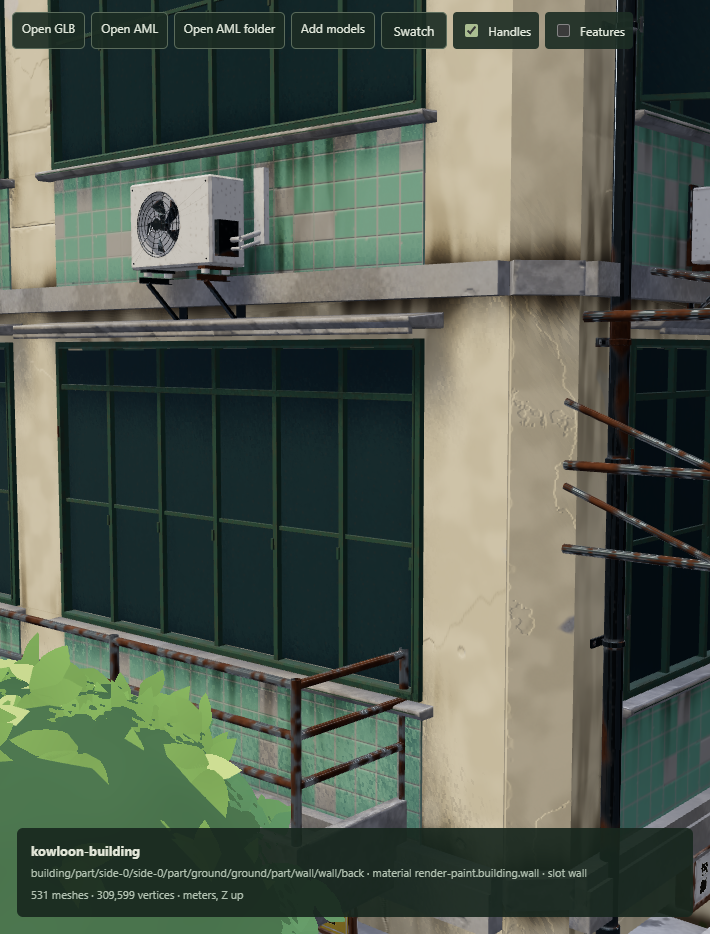
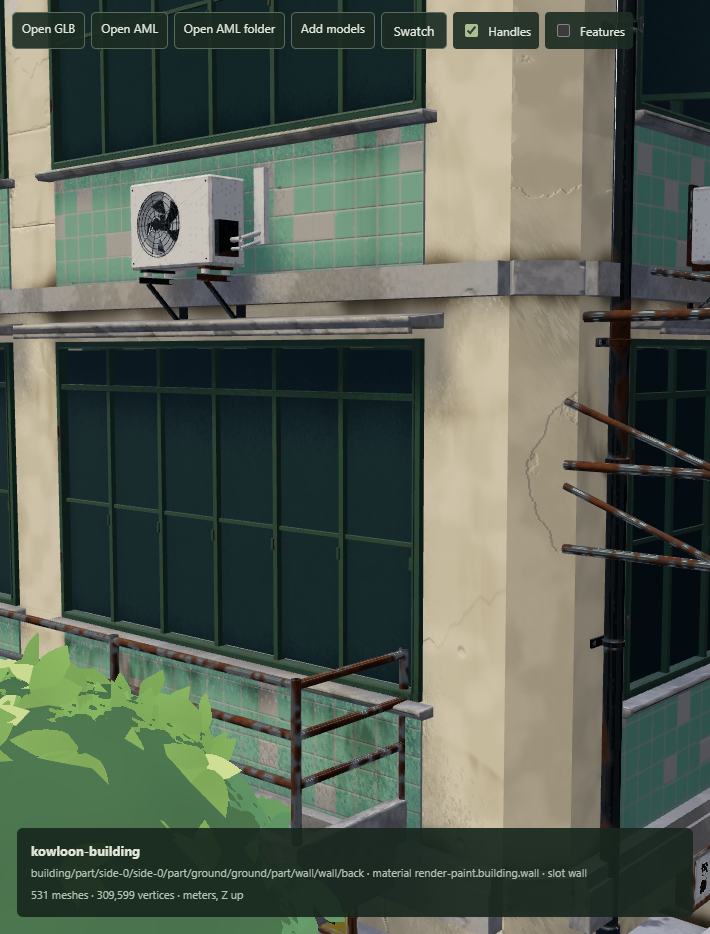
A generic cached grime layer, and wall patterns that run round corners
- kowloon-grime-streaks: grime streaking from the edge a slot names
  (source), with colour, strength, longest streak, repeat and shift.
  The streaks are one cached tile (assets/materials/grime-streaks.png,
  baked by tools/grime/streak-pattern.mjs from the wall condition's
  runoff); per texel the layer maps into edge space only, skewing the
  tile along gravity on sloping edges, stretching it for shorter runs and
  repeating it along any edge. The Kowloon items use it for their top,
  sill and drip grime on walls and tiles.
- Footprint edges report their distance along the cut outline
  (_perimeter, _cperimeter); a building's sides measure their walls
  from it (u0), and a sub-item part takes its sub-item's first part's
  pattern anchor, so concrete and paint continue round every corner.

diff --git a/crates/engine/src/materialspec/program/examples/kowloon-grime-streaks.material.ts b/crates/engine/src/materialspec/program/examples/kowloon-grime-streaks.material.ts
@@ -1,0 +1,41 @@
+// Grime streaking down from an edge, as a weathering layer: a generic deposit that follows the feature the slot
+// names `source` (a ledge, a sill, a roofline, the drip line under an air conditioner: any polyline its geometry's
+// owner reports, so its endpoints are the edge's), with its colour, strength, length and how often it repeats.
+//
+// Nothing is evaluated per texel but the mapping: the streaks themselves are one cached tile,
+// `superspec-material:grime-streaks.png` (written by tools/grime/streak-pattern.mjs from the Kowloon wall
+// condition's runoff), in edge space: across it along the edge over one period, down it from the edge to the longest
+// streak. Each texel finds where it hangs from the edge: its distance to the edge, turned into a drop along the
+// surface's downhill direction (gravity projected onto the surface), and its position along the edge, moved back up
+// that downhill line. So streaks fall with gravity whatever the edge's slope (the tile is skewed on a sloping ledge),
+// a longer or shorter run stretches the same tile, and every edge of every wall repeats it. A point above its edge
+// reads the same distance, so a source is an edge with the surface below it.
+import { defineLayer, param, featureDistance, featureTangent, sampleAlpha, smoothstep, normalize, dot, cross, abs, max, min, add, mul, sub, div, vec2, vec3, world, normal, gravity } from "@superspec/material/v1";
+
+const color = param.vec3({ default: vec3(0.36, 0.34, 0.31), range: [0, 1], label: "Grime colour" });
+const strength = param.scalar({ default: 0.8, range: [0, 2], label: "Strength" });
+const streakLength = param.scalar({ default: 2.8, range: [0.1, 10], unit: "m", label: "Longest streak" });
+const period = param.scalar({ default: 4, range: [0.5, 20], unit: "m", label: "Repeat along the edge" });
+const shift = param.scalar({ default: 0, range: [0, 100], unit: "m", label: "Pattern offset" });
+
+const distance = featureDistance("source", 10);
+const along = featureTangent("source", 10);
+// Downhill on the surface (straight down a flat one, so it is never zero), and the direction across the edge in the
+// surface: a unit vector where the receiver has the edge, zero where it has none (then nothing is drawn).
+const downhill = normalize(add(sub(gravity, mul(normal, dot(gravity, normal))), vec3(0, 0, -1e-4)));
+const across = cross(normal, along);
+const facing = dot(across, downhill);
+// The drop along the downhill line from the edge to this point, and where on the edge that line starts.
+const drop = div(distance, max(abs(facing), 0.2));
+const start = sub(dot(world, along), mul(drop, dot(downhill, along)));
+const tile = vec2(div(add(start, shift), period), min(div(drop, streakLength), 0.999));
+// Beyond the longest streak, or where the receiver has no such edge, nothing.
+const reached = sub(1, smoothstep(0.97, 1, div(drop, streakLength)));
+const coverage = mul(mul(sampleAlpha("superspec-material:grime-streaks.png", tile), reached), strength);
+
+export default defineLayer({
+  name: "Kowloon grime streaks",
+  coverage: min(coverage, 1),
+  baseColor: color,
+  blend: { baseColor: "multiply" },
+});

diff --git a/crates/engine/tests/kowloon_facade_item.rs b/crates/engine/tests/kowloon_facade_item.rs
@@ -203,7 +203,7 @@ fn a_side_stacks_a_ground_floor_upper_floors_and_a_parapet() {
         .map(|l| l.entry.as_str())
         .collect();
     for entry in [
-        "kowloon-runoff.material.ts",
+        "kowloon-grime-streaks.material.ts",
         "kowloon-ground-stain.material.ts",
         "kowloon-moss.material.ts",
     ] {
@@ -509,4 +509,53 @@ fn a_steel_balcony_has_rails_where_a_parapet_is_solid() {
     };
     assert!(rails("steel").contains("metal"), "{:?}", rails("steel"));
     assert!(!rails("parapet").contains("metal"));
+}
+
+#[test]
+fn wall_patterns_run_on_round_the_corners() {
+    // Each side's walls are measured from its distance along the cut footprint, so the concrete
+    // and paint continue round every corner: at a side's start its pattern reads that distance.
+    let building = generate("kowloon-building.item.json", &[]);
+    let anchor = |part: &str| {
+        building
+            .geometry
+            .anchors
+            .iter()
+            .find(|a| a.part == part)
+            .unwrap()
+            .clone()
+    };
+    let along = |part: &str| {
+        let a = anchor(part);
+        let start = translation(&building, part);
+        (0..3)
+            .map(|i| (start[i] - a.origin[i]) * a.u[i])
+            .sum::<f64>()
+    };
+    let cut = 0.24f64;
+    let corner = cut * 2f64.sqrt();
+    assert!(along("side-0").abs() < 1e-9);
+    assert!(
+        (along("corner-0") - (9.8 - cut)).abs() < 1e-9,
+        "{}",
+        along("corner-0")
+    );
+    assert!(
+        (along("side-1") - (9.8 - cut + corner)).abs() < 1e-9,
+        "{}",
+        along("side-1")
+    );
+    assert!(
+        (along("side-2") - (9.8 - cut + corner + 7. - cut)).abs() < 1e-9,
+        "{}",
+        along("side-2")
+    );
+    // Upright, from the ground: every side's v is +z and its origin on the ground.
+    for part in ["side-0", "side-1", "side-2", "side-3", "corner-0"] {
+        let a = anchor(part);
+        assert!(
+            (a.v[2] - 1.).abs() < 1e-9 && a.origin[2].abs() < 1e-9,
+            "{part}: {a:?}"
+        );
+    }
 }

diff --git a/crates/engine/src/itemspec/definition/parts.rs b/crates/engine/src/itemspec/definition/parts.rs
@@ -917,10 +917,22 @@ impl PreparedPart {
         Ok(surfaces.into_meshes(&self.id, &self.slots))
     }
 
-    fn features(&self) -> (Vec<Feature>, PatternAnchor) {
+    /// Where the part sits in its item: part coordinates to item definition coordinates.
+    pub(super) fn placement(&self) -> Matrix {
+        self.placement
+    }
+    /// The part's own features and pattern anchor, in part coordinates. A sub-item part's
+    /// anchor is its sub-item's first part's, so a pattern measured from it continues across the
+    /// parts that place their sub-items at matching offsets (a building's storeys and sides).
+    pub(super) fn features(&self) -> (Vec<Feature>, PatternAnchor) {
         match &self.shape {
             PartShape::Panel(panel) => panel.features(&self.id),
             PartShape::Route(route) => route.features(&self.id),
+            PartShape::Item { prepared, .. } if prepared.0.first_anchor().is_some() => {
+                let mut anchor = prepared.0.first_anchor().unwrap();
+                anchor.part = self.id.clone();
+                (vec![], anchor)
+            }
             // Straight generators and boxes report an anchor at their origin and no features.
             _ => (
                 vec![],

diff --git a/crates/engine/src/itemspec/definition/footprint.rs b/crates/engine/src/itemspec/definition/footprint.rs
@@ -205,6 +205,12 @@ pub(super) fn locals(name: &str, edges: &[Edge], index: usize) -> Vec<(String, f
         }
     }
     let flag = |b: bool| f64::from(u8::from(b));
+    // Distance along the cut outline from point 0 to this wall's start, so a pattern measured from it
+    // runs on round every corner without a seam.
+    let perimeter: f64 = edges[..index]
+        .iter()
+        .map(|edge| edge.length + edge.chamfer_length * f64::from(u8::from(edge.cut > 0.)))
+        .sum();
     [
         ("x", edge.start[0]),
         ("y", edge.start[1]),
@@ -220,6 +226,8 @@ pub(super) fn locals(name: &str, edges: &[Edge], index: usize) -> Vec<(String, f
         ("cdx", edge.chamfer_direction[0]),
         ("cdy", edge.chamfer_direction[1]),
         ("clength", edge.chamfer_length),
+        ("perimeter", perimeter),
+        ("cperimeter", perimeter + edge.length),
         ("min_x", bounds[0]),
         ("min_y", bounds[1]),
         ("max_x", bounds[2]),

diff --git a/crates/engine/src/itemspec/definition/mod.rs b/crates/engine/src/itemspec/definition/mod.rs
@@ -472,6 +472,23 @@ pub fn prepare_in(
 }
 
 impl PreparedItem {
+    /// The pattern anchor of the item's first part, in the item's coordinates (after its
+    /// transform), found from the prepared shapes without building any mesh.
+    pub(super) fn first_anchor(&self) -> Option<PatternAnchor> {
+        let Shape::Parts(parts) = &self.shape else {
+            return None;
+        };
+        let part = parts.first()?;
+        let (_, local) = part.features();
+        let matrix = Matrix(self.definition.transform).then(part.placement());
+        Some(PatternAnchor {
+            part: local.part,
+            origin: matrix.point(local.origin),
+            u: matrix.direction(local.u),
+            v: matrix.direction(local.v),
+            normal: matrix.direction(local.normal),
+        })
+    }
     pub fn build(&self, cancelled: &dyn Fn() -> bool) -> Result<GeneratedItem, ItemDiagnostic> {
         Ok(self.construct(None, cancelled)?.0)
     }

diff --git a/docs/plans/itemspec-port.md b/docs/plans/itemspec-port.md
@@ -160,6 +160,20 @@ grime: floors under their top edge, sills and air conditioners' drips, on both t
 ground floors under their top and awnings; parapets under their coping. Identical layers from a side's storeys merge,
 so a side stays within the 8 layers a slot composes.
 
+**A generic, cached grime.** `kowloon-grime-streaks` is the layer the items use now: grime streaking from whatever
+edge it follows (`source`: an authored or generated polyline, so the edge's endpoints are the feature's), with a
+colour, strength, longest streak, repeat and shift. The streaks are one cached tile, `grime-streaks.png`
+(`tools/grime/streak-pattern.mjs` bakes the wall condition's runoff into it once: 4 m along the edge, wrapping, by
+2.8 m down; preview `itemspec/grime-streaks-tile.png`). Per texel the layer only maps into edge space: the distance
+to the edge becomes a drop along the surface's downhill direction (gravity projected onto it) and the position along
+the edge is moved back up that line, so the same tile is skewed on a sloping edge, stretched for a shorter run and
+repeated along any edge, at the cost of two feature queries and one image read. `kowloon-runoff` (the procedural
+port) stays as the reference it was baked from.
+
+**Corners.** Each side's walls (`u0`) are measured from the side's distance along the cut footprint
+(`<edge>_perimeter`, `_cperimeter`), and a sub-item part takes its sub-item's first part's pattern anchor, so the
+concrete and paint run on round every corner and up every storey instead of restarting on each side.
+
 The earlier grey blobs were not grime at all. At production resolution most of the building's 518 receivers did
 not fit the preview's 512 MiB of baked maps and stayed on the per-pixel look, which shows a layered slot's base alone:
 no paint, no grime. `?bakememory=<MiB>` (64 to 8192) raises the allowance; the building takes about 5.1 GiB at
